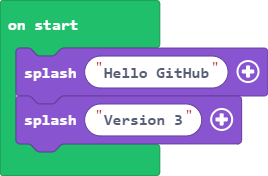
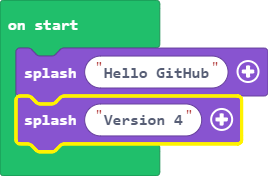
Testing Version 4

Changed region(s): [[0.0299, 0.5114, 0.9254, 0.8807], [0.6269, 0.6534, 0.6866, 0.7102]]

diff --git a/main.ts b/main.ts
@@ -1,2 +1,2 @@
 game.splash("Hello GitHub")
-game.splash("Version 3")
+game.splash("Version 4")
